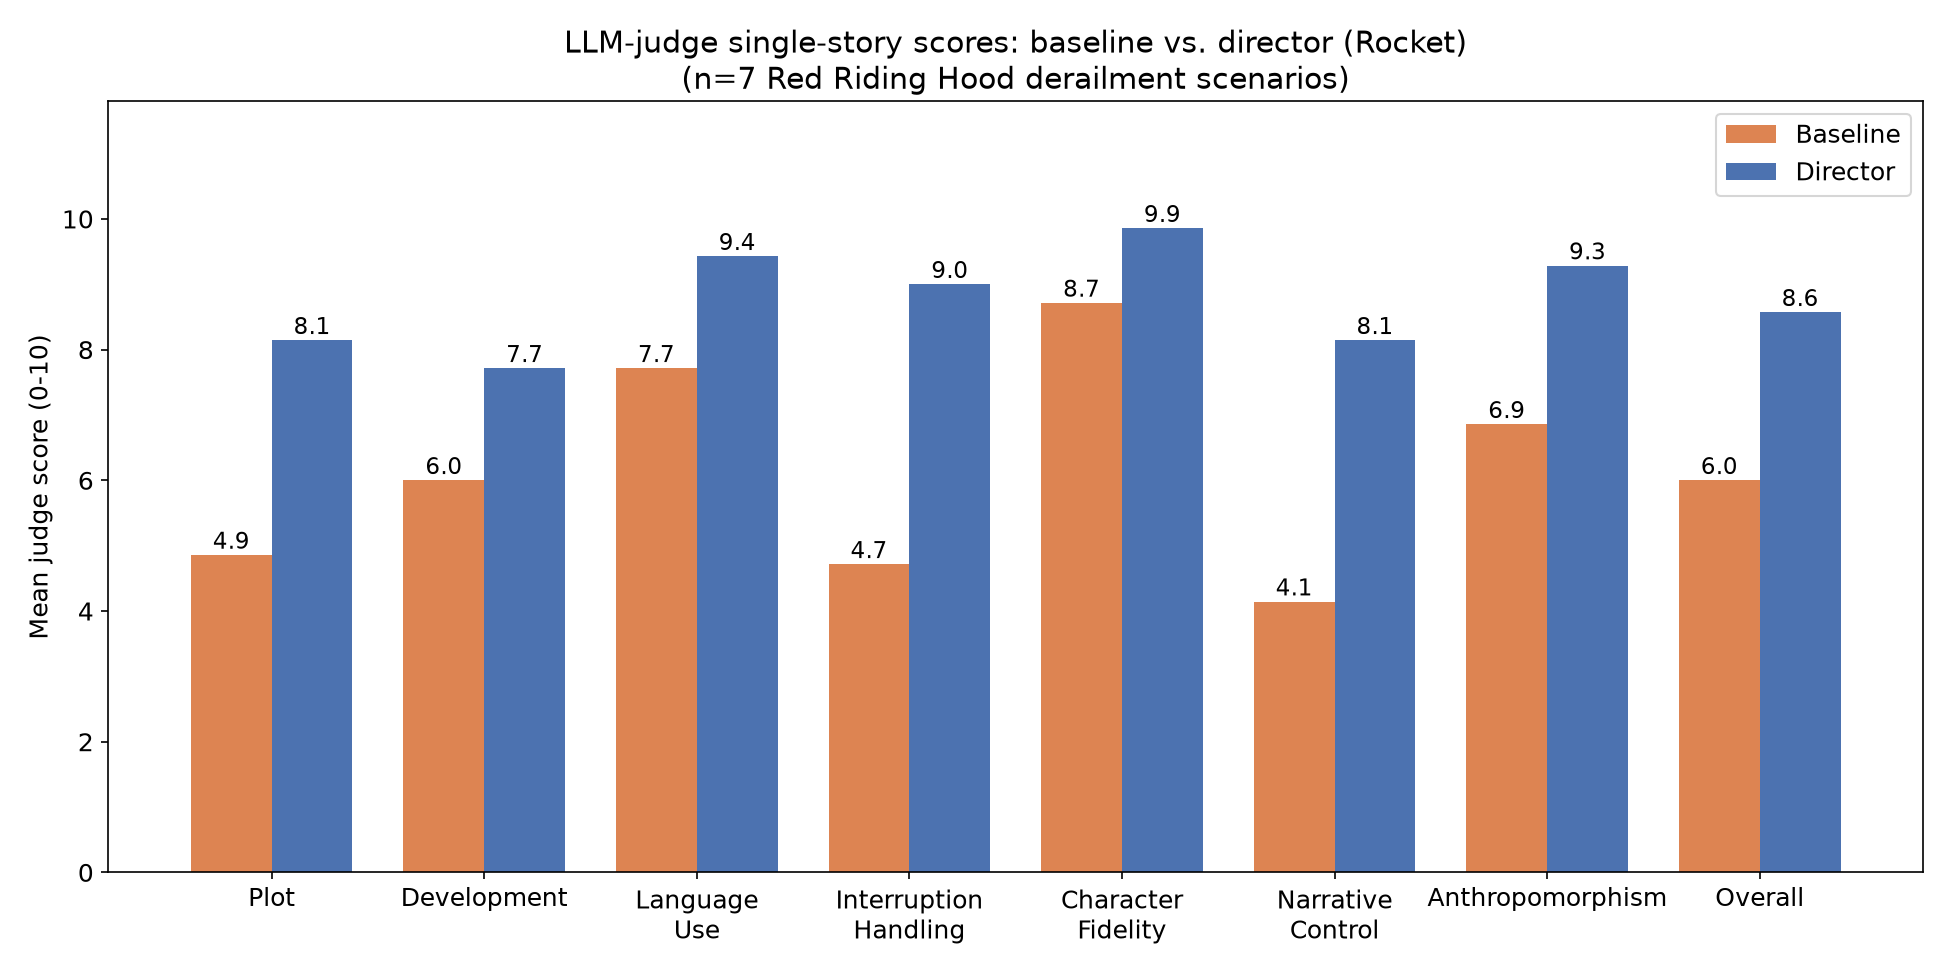
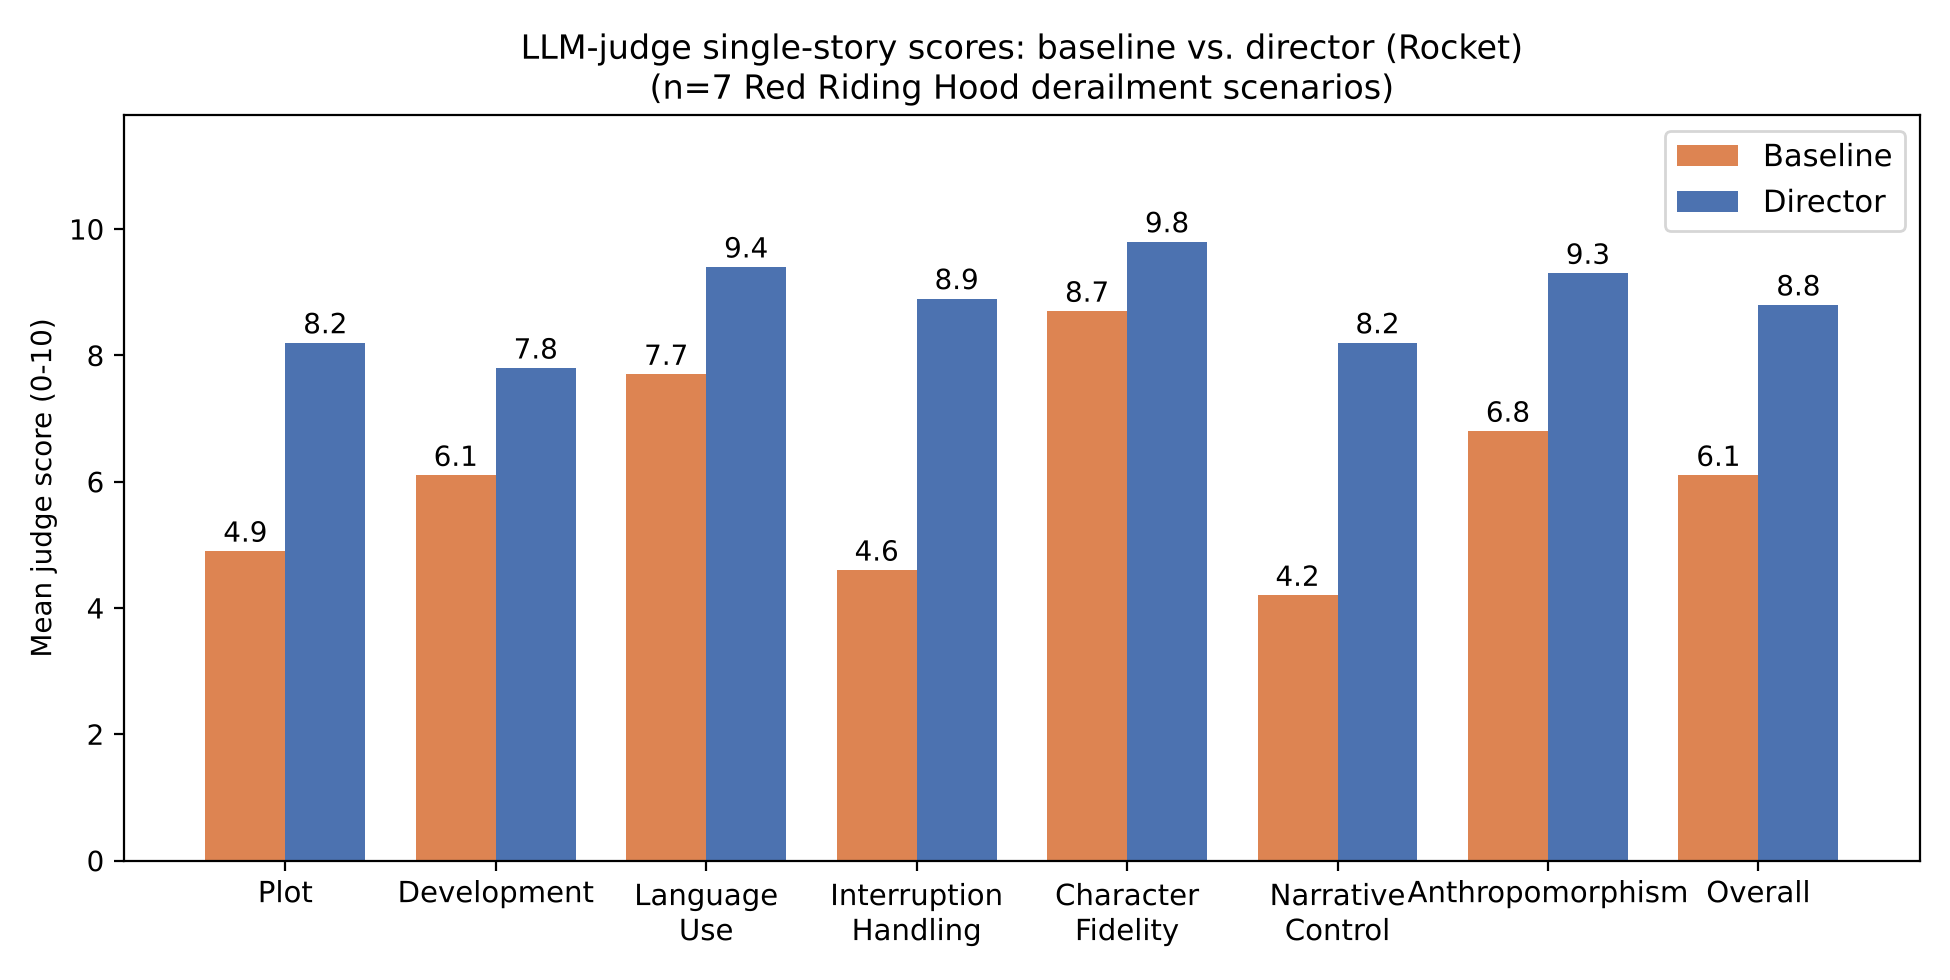
Update Rocket score table, figure and text
Claude-Session: https://claude.ai/code/session_01M93oRevghLswnboshza7Lk

diff --git a/latex/tex/results.tex b/latex/tex/results.tex
@@ -412,7 +412,7 @@ Compared with the participants' ratings in Figure~\ref{fig:story2-all}, Table~\r
 
 Every comparison so far uses Olaf as the character. A system whose director layer only works for one character's voice would be a weak result, so we repeated the baseline-vs-director comparison from Section~\ref{sec:llm-baseline} on a second character with a deliberately different personality: Rocket Raccoon, whose defensive, sarcastic, deflecting register is close to the opposite of Olaf's earnest, naive one. None of the director's rules (bridge sentences, anti-stall pacing, staying in character under derailment) are written with Olaf specifically in mind, i.e.\ they are character-agnostic, so this is a direct test of whether the director's advantage generalizes to other characters.
 
-We built a Red Riding Hood suite for Rocket with the same seven variants as for Olaf (Section~\ref{sec:characters}), judged with the same rubric and order-bias-controlled protocol (Section~\ref{sec:design-judge}). The \emph{matched} set is the three scenarios with no, medium and complete random off-topic derailment, which allows a like-for-like comparison with Olaf. The \emph{full suite} is all 7 scenarios, including the adversarial and targeted ones.
+We built a Red Riding Hood suite for Rocket with the same seven variants as for Olaf (Section~\ref{sec:characters}), judged with the same rubric and order-bias-controlled protocol (Section~\ref{sec:design-judge}). All results below cover the 7 scenarios, including the adversarial and targeted ones.
 
 \begin{figure}[htbp]
 \centering
@@ -423,26 +423,26 @@ We built a Red Riding Hood suite for Rocket with the same seven variants as for 
 
 \begin{table}[htbp]
 \centering
-\caption{Single-story judge scores, baseline vs.\ director for Rocket, on the matched set (the 3 canonical scenarios) and the full suite (all 7 scenarios).}
+\caption{Single-story judge scores, baseline vs.\ director for Rocket, averaged over all 7 scenarios.}
 \label{tab:llm-rocket-metric}
-\begin{tabular}{lcc|cc}
+\begin{tabular}{lcc}
 \toprule
- & \multicolumn{2}{c}{Matched (n=3)} & \multicolumn{2}{c}{Full suite (n=7)} \\
-Dimension & Baseline & Director & Baseline & Director \\
+Dimension & Baseline & Director \\
 \midrule
-Plot                   & 5.2 & 9.00  & 4.9 & 8.14 \\
-Development             & 6.33 & 9.00  & 6.0 & 7.71 \\
-Language Use            & 8.33 & 10.00 & 7.7 & 9.43 \\
-Interruption Handling   & 5.67 & 9.00  & 4.7 & 9.00 \\
-Character Fidelity      & 9.00 & 10.00 & 8.7 & 9.86 \\
-Narrative Control       & 4.67 & 9.00  & 4.1 & 8.14 \\
-Anthropomorphism        & 7.67 & 10.00 & 6.9 & 9.29 \\
-Overall                  & 6.67 & 9.00  & 6.0 & 8.57 \\
+Plot                  & 4.9 & 8.2 \\
+Development           & 6.1 & 7.8 \\
+Language Use          & 7.7 & 9.4 \\
+Interruption Handling & 4.6 & 8.9 \\
+Character Fidelity    & 8.7 & 9.8 \\
+Narrative Control     & 4.2 & 8.2 \\
+Anthropomorphism      & 6.8 & 9.3 \\
+\midrule
+Overall               & 6.1 & 8.8 \\
 \bottomrule
 \end{tabular}
 \end{table}
 
-Figure~\ref{fig:llm-rocket-metric} and Table~\ref{tab:llm-rocket-metric} show that the pattern from Olaf holds for Rocket, and more strongly. The director scores higher than the baseline on every dimension, both on the matched set and on the full suite. The Overall gap is 2.33 points on the matched set and about 2.6 on the full suite.  The pairwise verdicts (Figure~\ref{fig:llm-rocket-wins}) are almost unanimous: across the matched 3 scenarios, director wins outright on 20 of 24 dimension judgments, with the only ties on Character Fidelity and one Anthropomorphism tie; on the full 7-scenario suite director wins on nearly every dimension.
+Figure~\ref{fig:llm-rocket-metric} and Table~\ref{tab:llm-rocket-metric} show that the pattern from Olaf holds for Rocket, and more strongly. The director scores higher than the baseline on every dimension, with an Overall score of 8.8 against 6.1. The largest gaps are on Interruption Handling (8.9 vs.\ 4.6) and Narrative Control (8.2 vs.\ 4.2), followed by Plot (8.2 vs.\ 4.9). The smallest gap is on Character Fidelity (9.8 vs.\ 8.7), where the baseline already stays close to Rocket's voice. The pairwise verdicts (Figure~\ref{fig:llm-rocket-wins}) are almost unanimous, with the director winning on nearly every dimension.
 
 \begin{figure}[htbp]
 \centering
@@ -451,7 +451,7 @@ Figure~\ref{fig:llm-rocket-metric} and Table~\ref{tab:llm-rocket-metric} show th
 \label{fig:llm-rocket-wins}
 \end{figure}
 
-Breaking the full suite down by derailment level (Figure~\ref{fig:llm-rocket-derail} and Table~\ref{tab:llm-rocket-derail}) shows that the director's advantage for Rocket does not shrink under heavier derailment: it stays at 2.5 to 2.7 points from medium through complete derailment, in line with the growing lead in Interruption Handling for Olaf (Figure~\ref{fig:llm-base-derail}). The ``none'' cell here is a single scenario, not an average, and one baseline single-story score at the complete level failed to parse and was excluded from that cell's mean (n=2 instead of 3). This rests on far fewer scenarios per cell than the Olaf results, so it should be read as directional, not conclusive.
+Breaking the results down by derailment level (Figure~\ref{fig:llm-rocket-derail} and Table~\ref{tab:llm-rocket-derail}) shows that the director's advantage for Rocket does not shrink under heavier derailment: it stays at 2.5 to 2.7 points from medium through complete derailment, in line with the growing lead in Interruption Handling for Olaf (Figure~\ref{fig:llm-base-derail}). The ``none'' cell here is a single scenario, not an average, and one baseline single-story score at the complete level failed to parse and was excluded from that cell's mean (n=2 instead of 3). This rests on far fewer scenarios per cell than the Olaf results, so it should be read as directional, not conclusive.
 
 \begin{figure}[htbp]
 \centering
